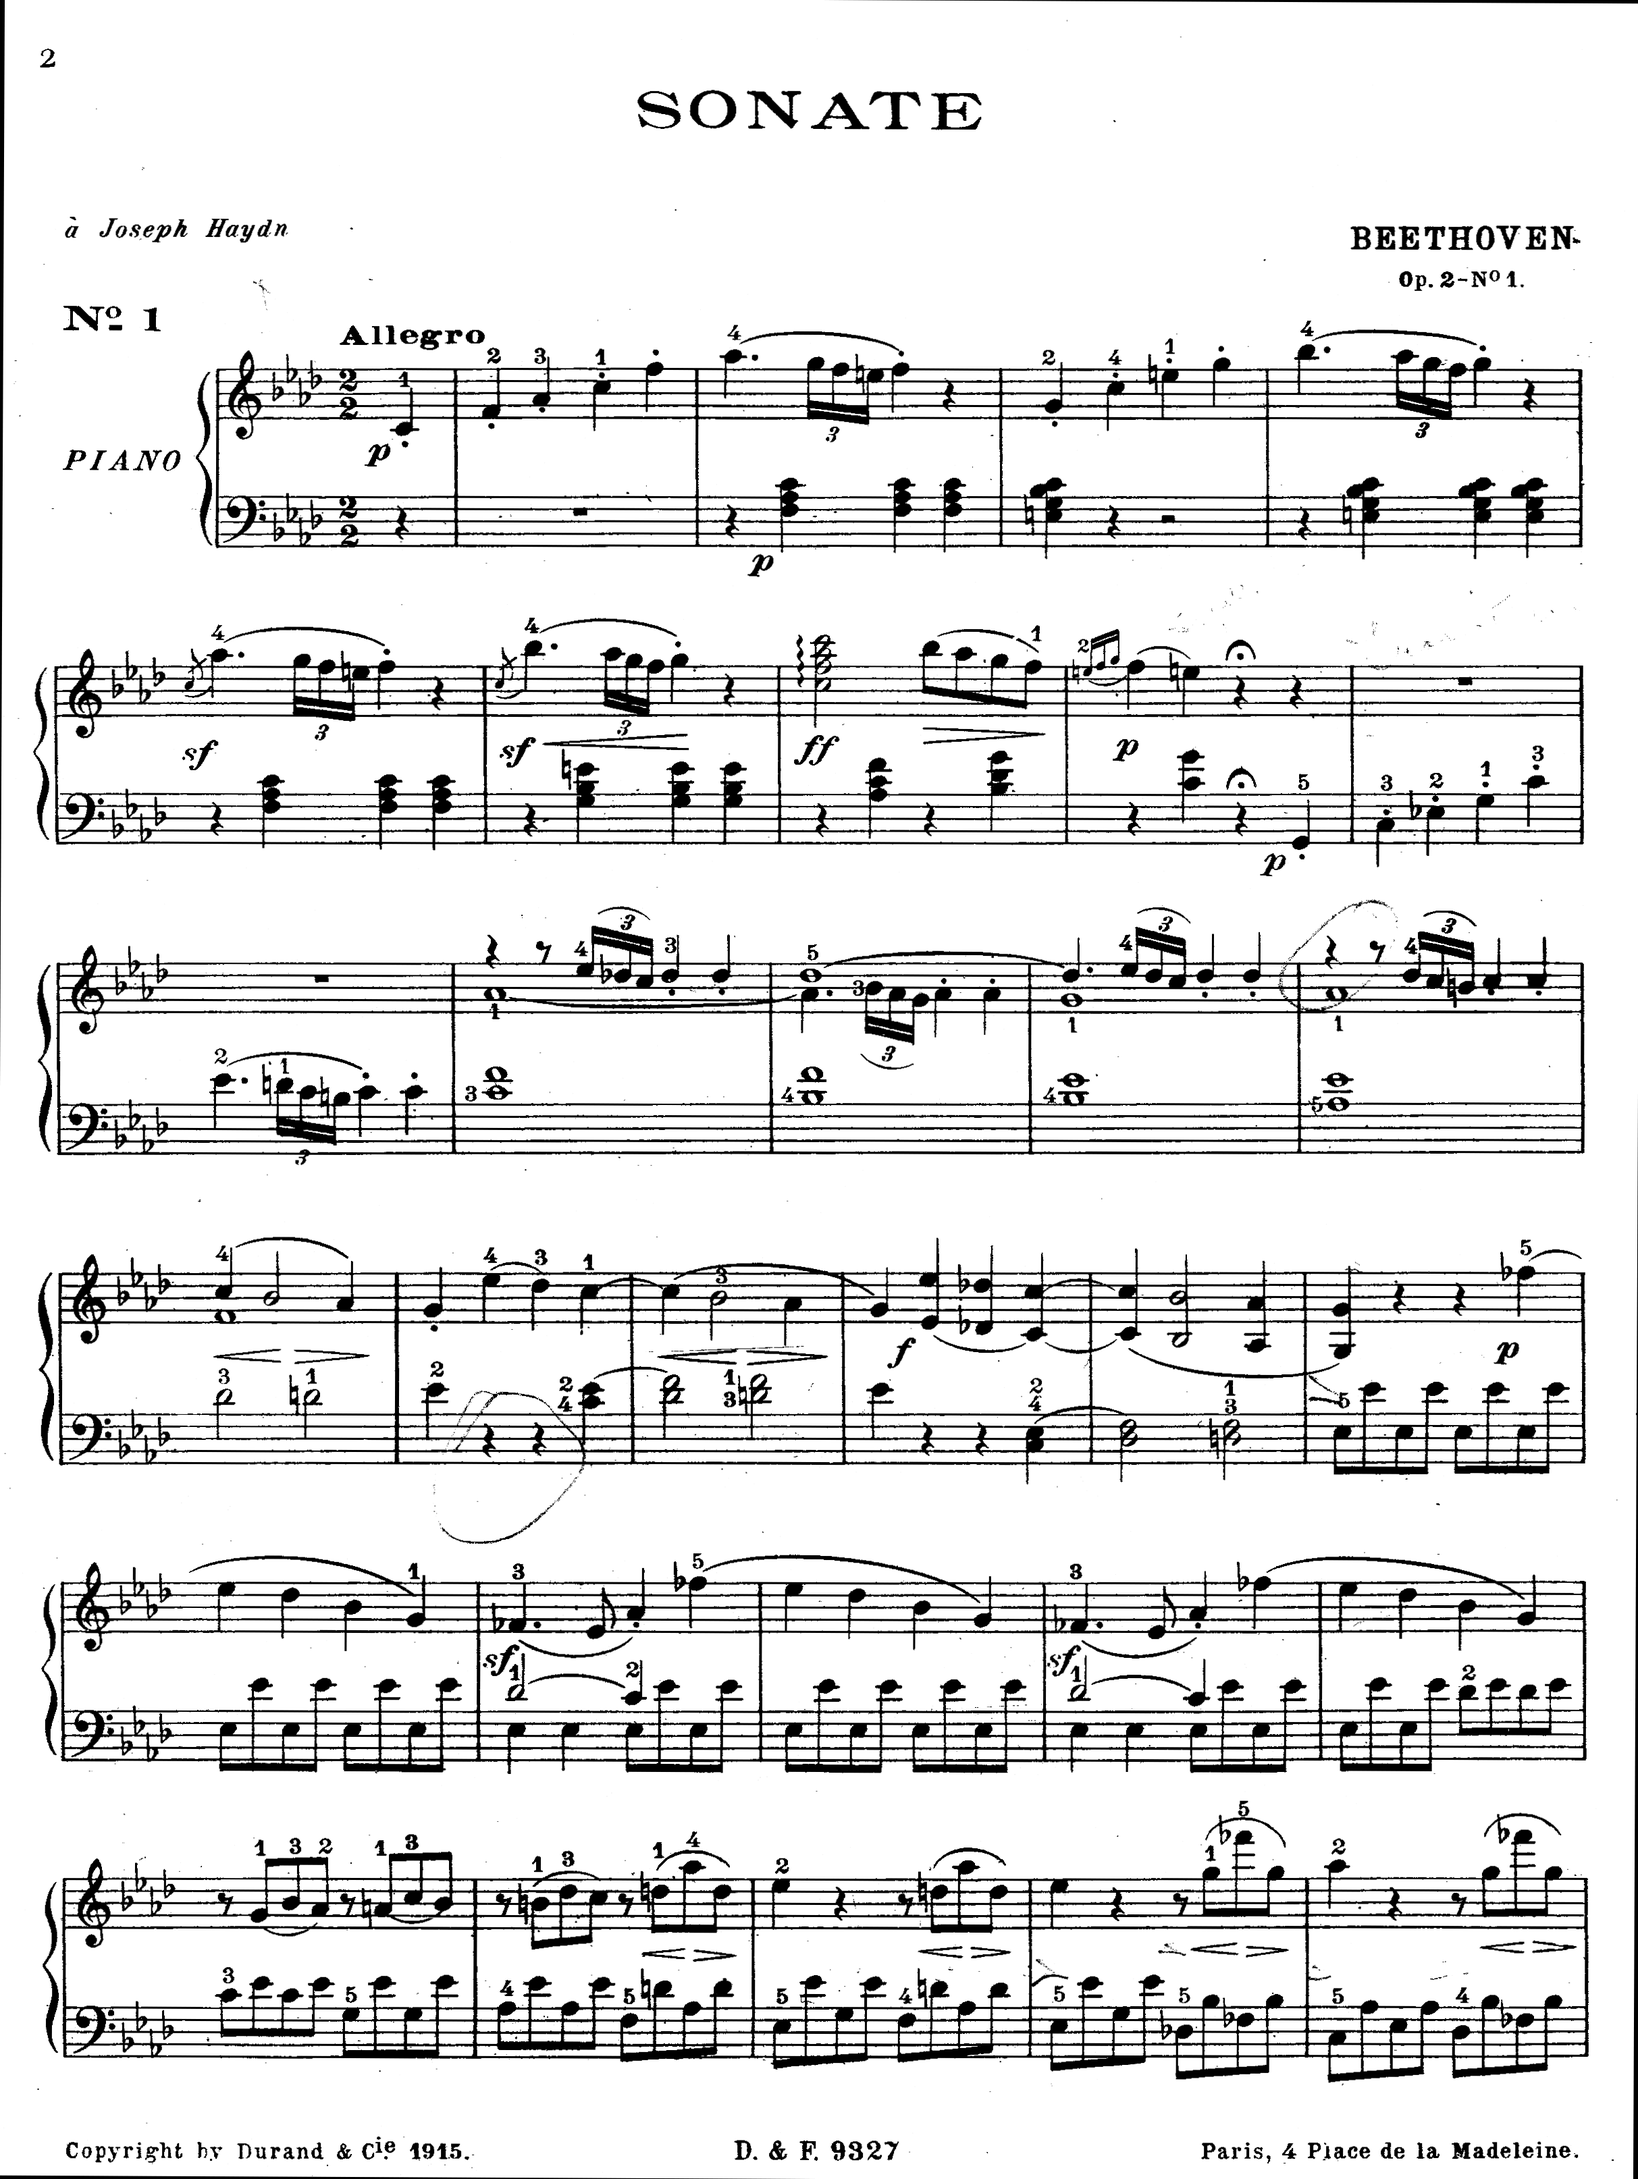
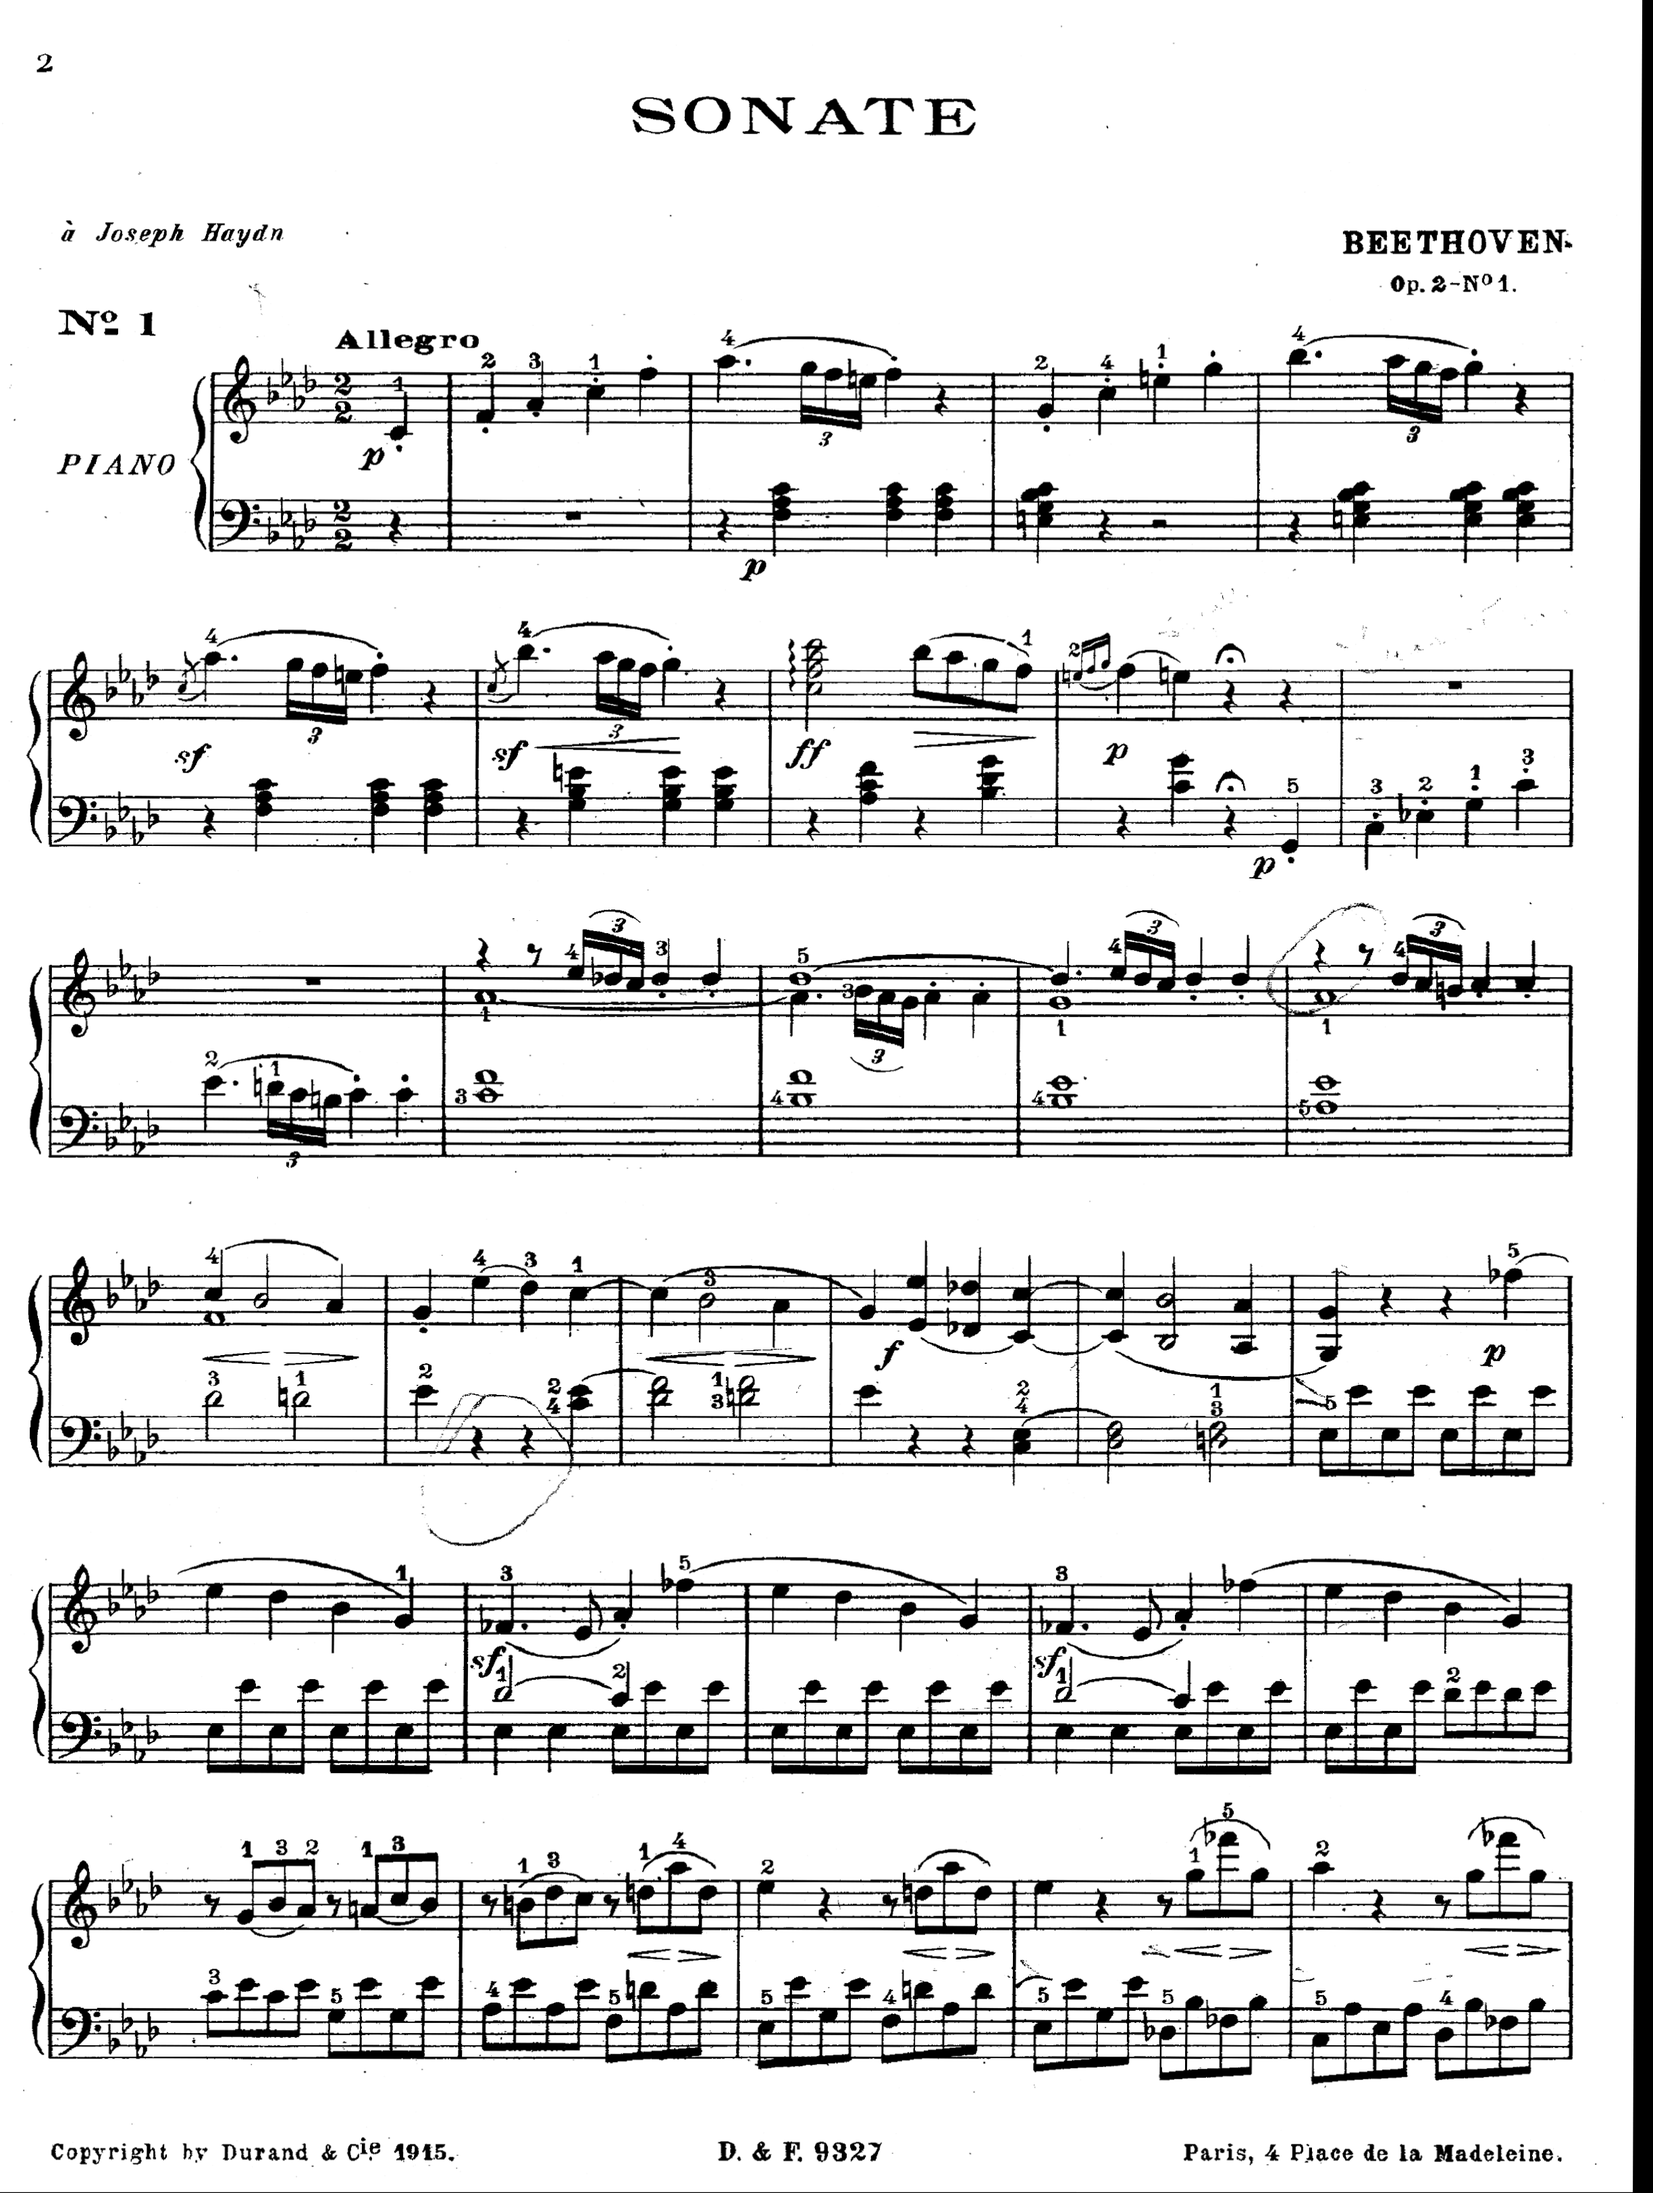
Dewarped sonate

diff --git a/dewarp/horizontal_dewarp.py b/dewarp/horizontal_dewarp.py
@@ -10,8 +10,9 @@
 ######################################################################
 # Edits by Lindsay Kempen (Summer 2020):
 # - Updated for python 3.7 and newer versions of OpenCV
-# - Tweaked params for OMR purposes
+# - Tweaked params and functions for OMR purposes
 # - Added spacious margins to allow space for severe warping
+# - Removed main()
 ######################################################################
 
 import os

diff --git a/main.py b/main.py
@@ -23,7 +23,7 @@ from helpers.staff_fixers import fix_staff_relations
 
 
 def main():
-    INPUT_DIR = 'images/sheets/trombone2/'
+    INPUT_DIR = 'images/sheets/sonate/'
     INPUT_PATH = INPUT_DIR + 'input.png'
     DEWARPED_FILE = 'dewarped.png'
     DEWARPED_PATH = INPUT_DIR + DEWARPED_FILE
